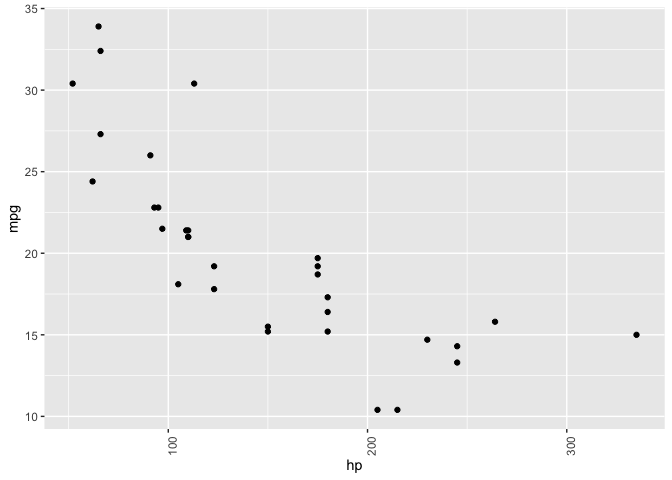
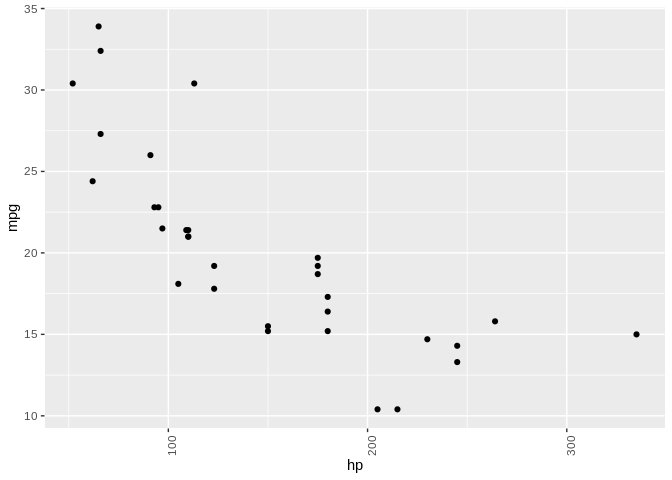
updated README with teach

diff --git a/README.md b/README.md
@@ -46,12 +46,21 @@ ggplot(mtcars, aes(hp, mpg)) +
 
 ``` r
 
+ggplot(mtcars, aes(hp, mpg)) + 
+    geom_point() + 
+    easy_rotate_y_labels()
+```
+
+![](tools/readme/README-example-2.png)<!-- -->
+
+``` r
+
 ggplot(mtcars, aes(wt, mpg, colour = cyl, size = hp)) +
     geom_point() +
     easy_remove_legend(size)
 ```
 
-![](tools/readme/README-example-2.png)<!-- -->
+![](tools/readme/README-example-3.png)<!-- -->
 
 ``` r
 
@@ -67,4 +76,17 @@ ggplot(iris_labs, aes(x = Sepal.Length, y = Sepal.Width)) +
     easy_labs()
 ```
 
-![](tools/readme/README-example-3.png)<!-- -->
+![](tools/readme/README-example-4.png)<!-- -->
+
+These functions will try to teach you the ‘official’ way to achieve
+these goal, usually via the `teach` argument (where implemented)
+
+``` r
+ggplot(mtcars, aes(hp, mpg)) + 
+    geom_point() + 
+    easy_rotate_y_labels(angle = "startatbottom", teach = TRUE)
+#> easy_rotate_x_labels call can be substituted with:
+#> theme(axis.text.y = element_text(angle = 90, hjust = 0)
+```
+
+![](tools/readme/README-teach-1.png)<!-- -->
